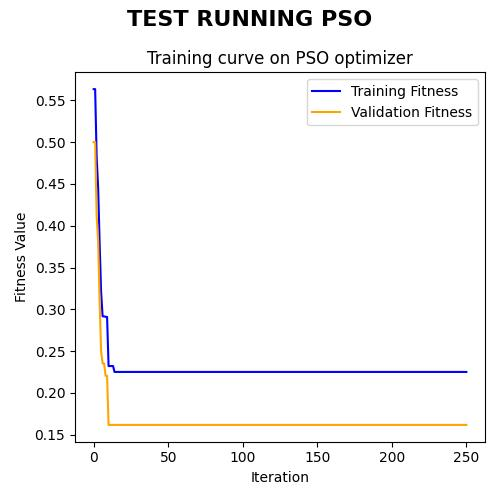
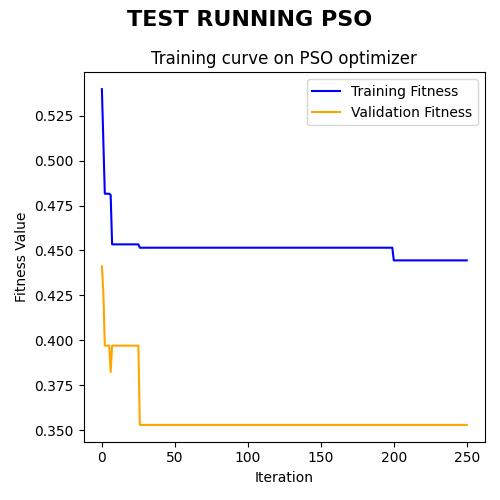
Fix in parameters of PSO

diff --git a/src/data_utils.py b/src/data_utils.py
@@ -189,7 +189,7 @@ def get_optimizer_parameters(optimizer=None, solution_len=2):
             'gama': 0.9,
             'fmin': 0,
             'fmax': 10,
-            'binary': 'x',
+            'binary': 's',
         }
         optimizer_title = 'Running BA'
     elif optimizer_upper == 'PSO':
@@ -203,9 +203,9 @@ def get_optimizer_parameters(optimizer=None, solution_len=2):
             'c1': 2,
             'c2': 2,
             'verbose': True,
-            'binary': 'x',
+            'binary': 'v',
         }
-        optimizer_title = 'Running BA'
+        optimizer_title = 'Running PSO'
 
     return parameters, optimizer_title
 

diff --git a/src/pyMetaheuristic/algorithm/pso.py b/src/pyMetaheuristic/algorithm/pso.py
@@ -107,7 +107,7 @@ def update_position(position, velocity, min_values=[-5, -5], max_values=[5, 5], 
             if binary == 's':
                 position[i, j] = s_shaped_transfer_function(velocity[i, j])
             elif binary == 'v':
-                position[i, j] = v_shaped_transfer_function(velocity[i, j])
+                position[i, j] = v_shaped_transfer_function(position[i,j], velocity[i, j])
             else:
                 position[i, j] = np.clip(
                     (position[i, j] + velocity[i, j]),  min_values[j],  max_values[j])
